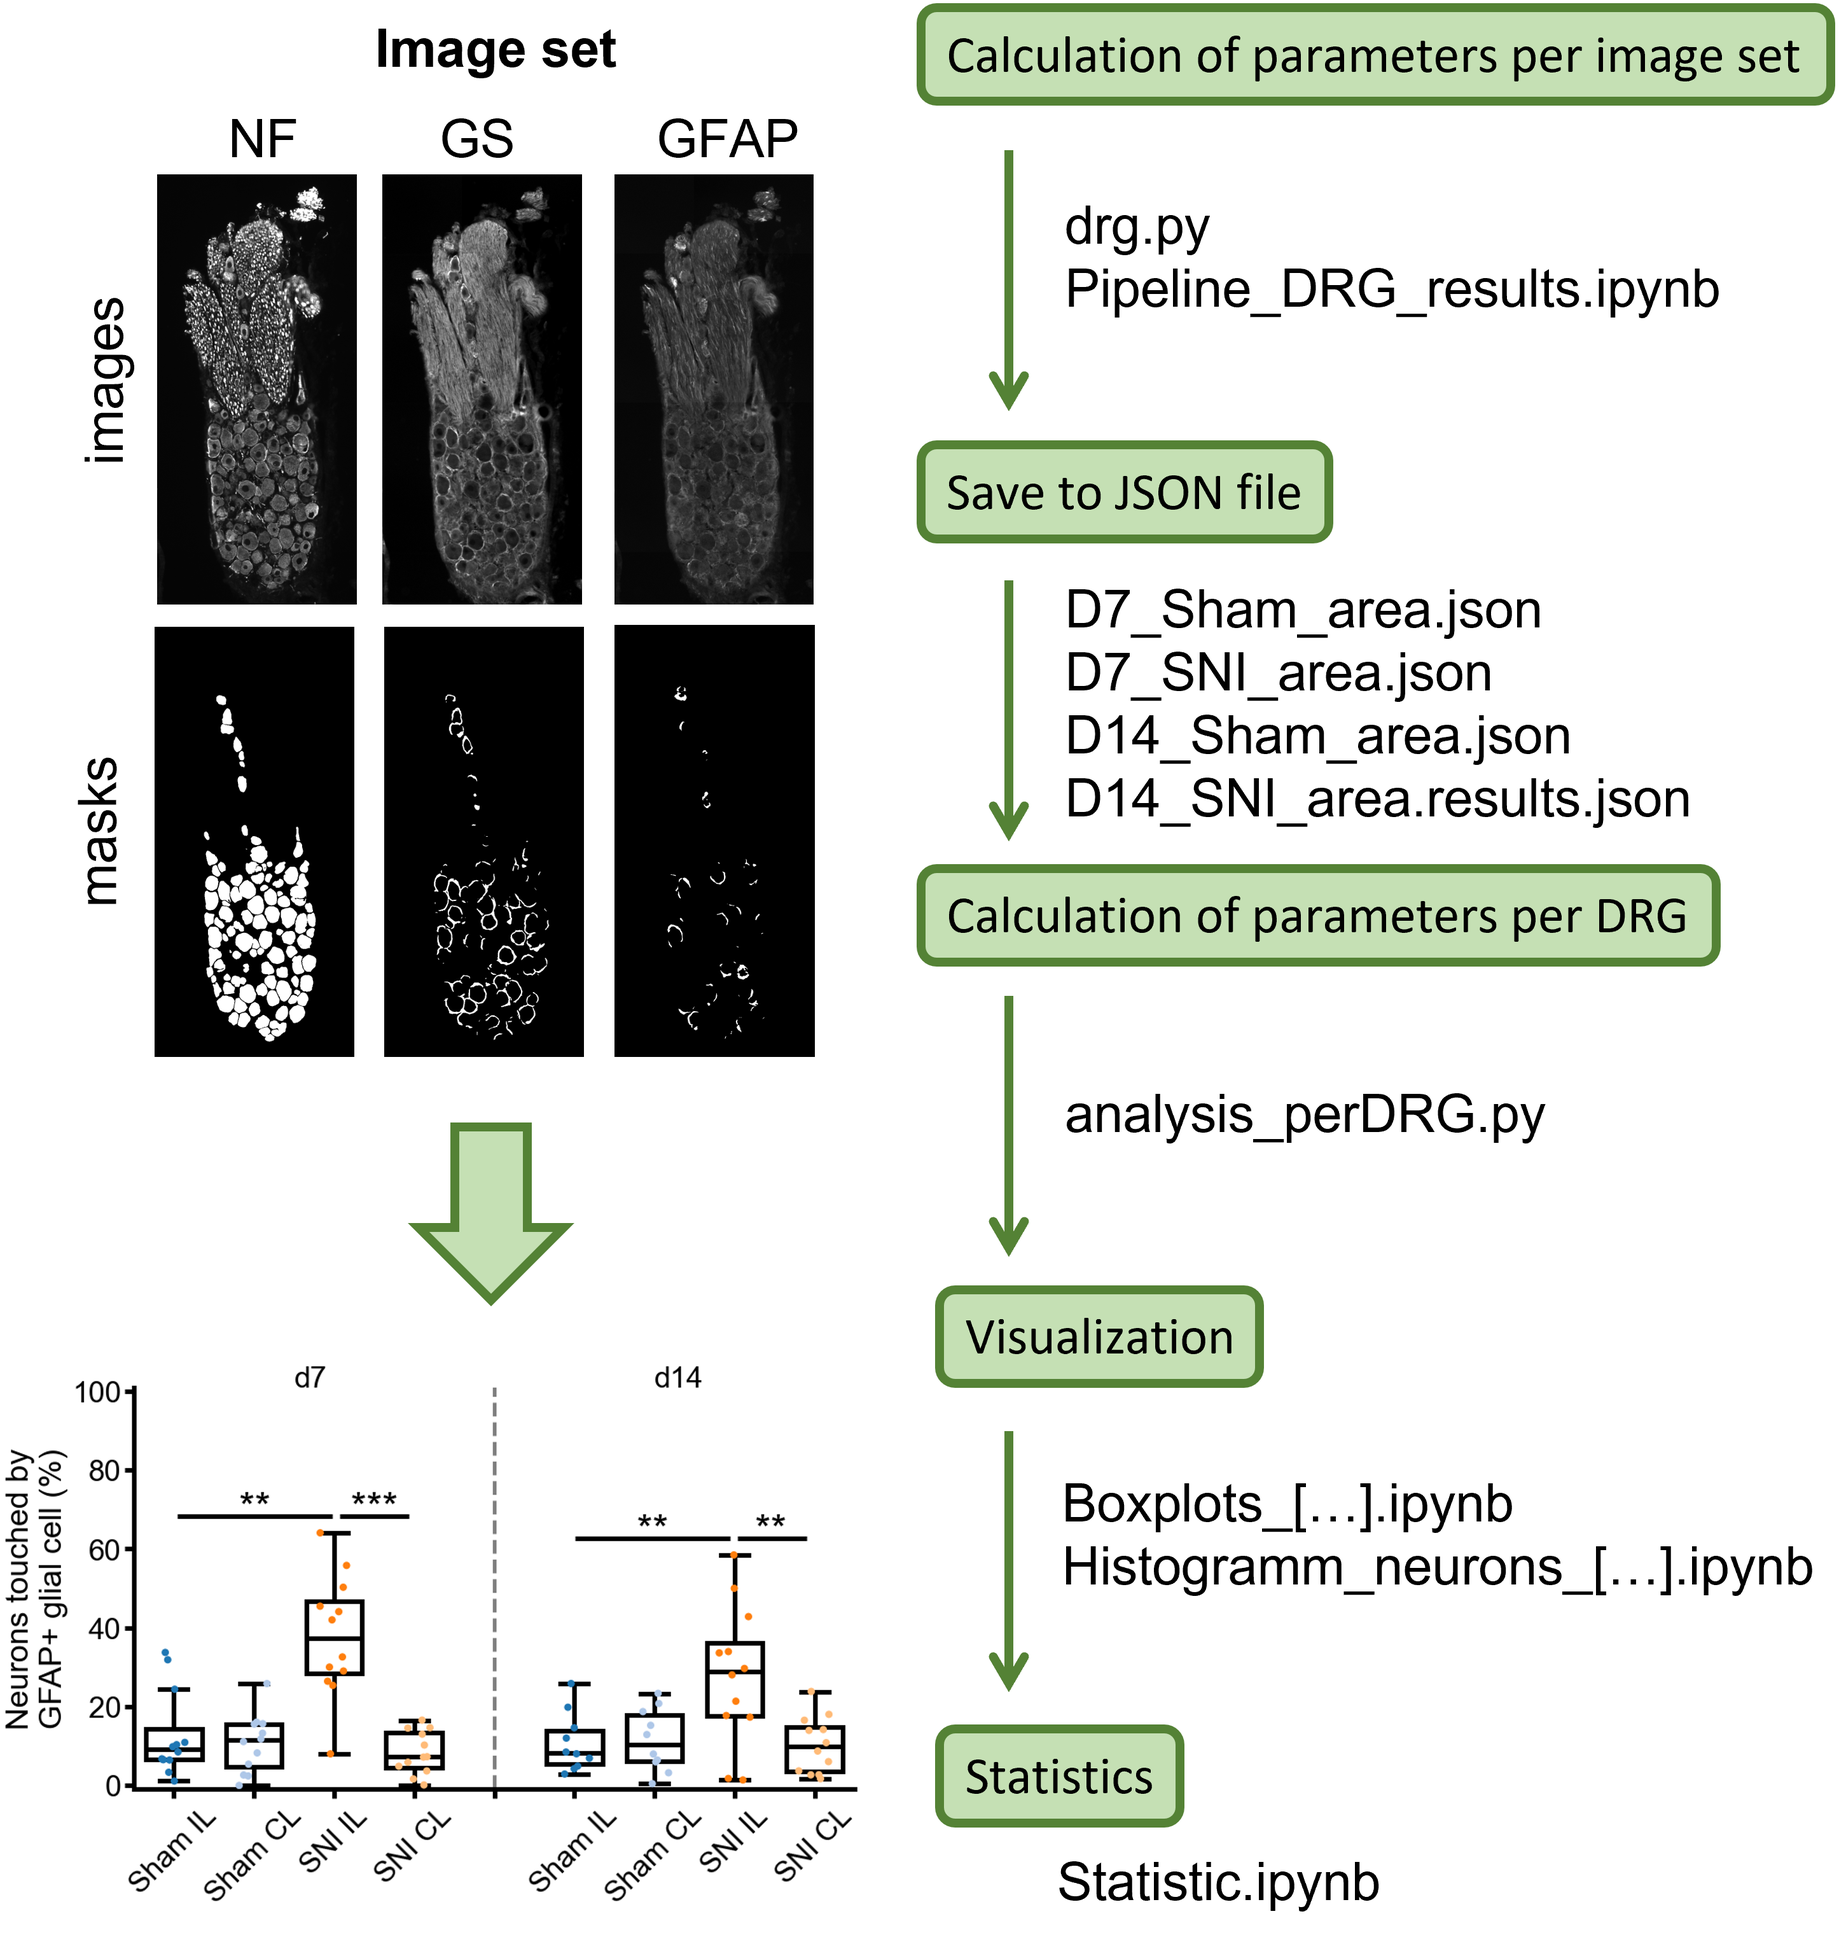
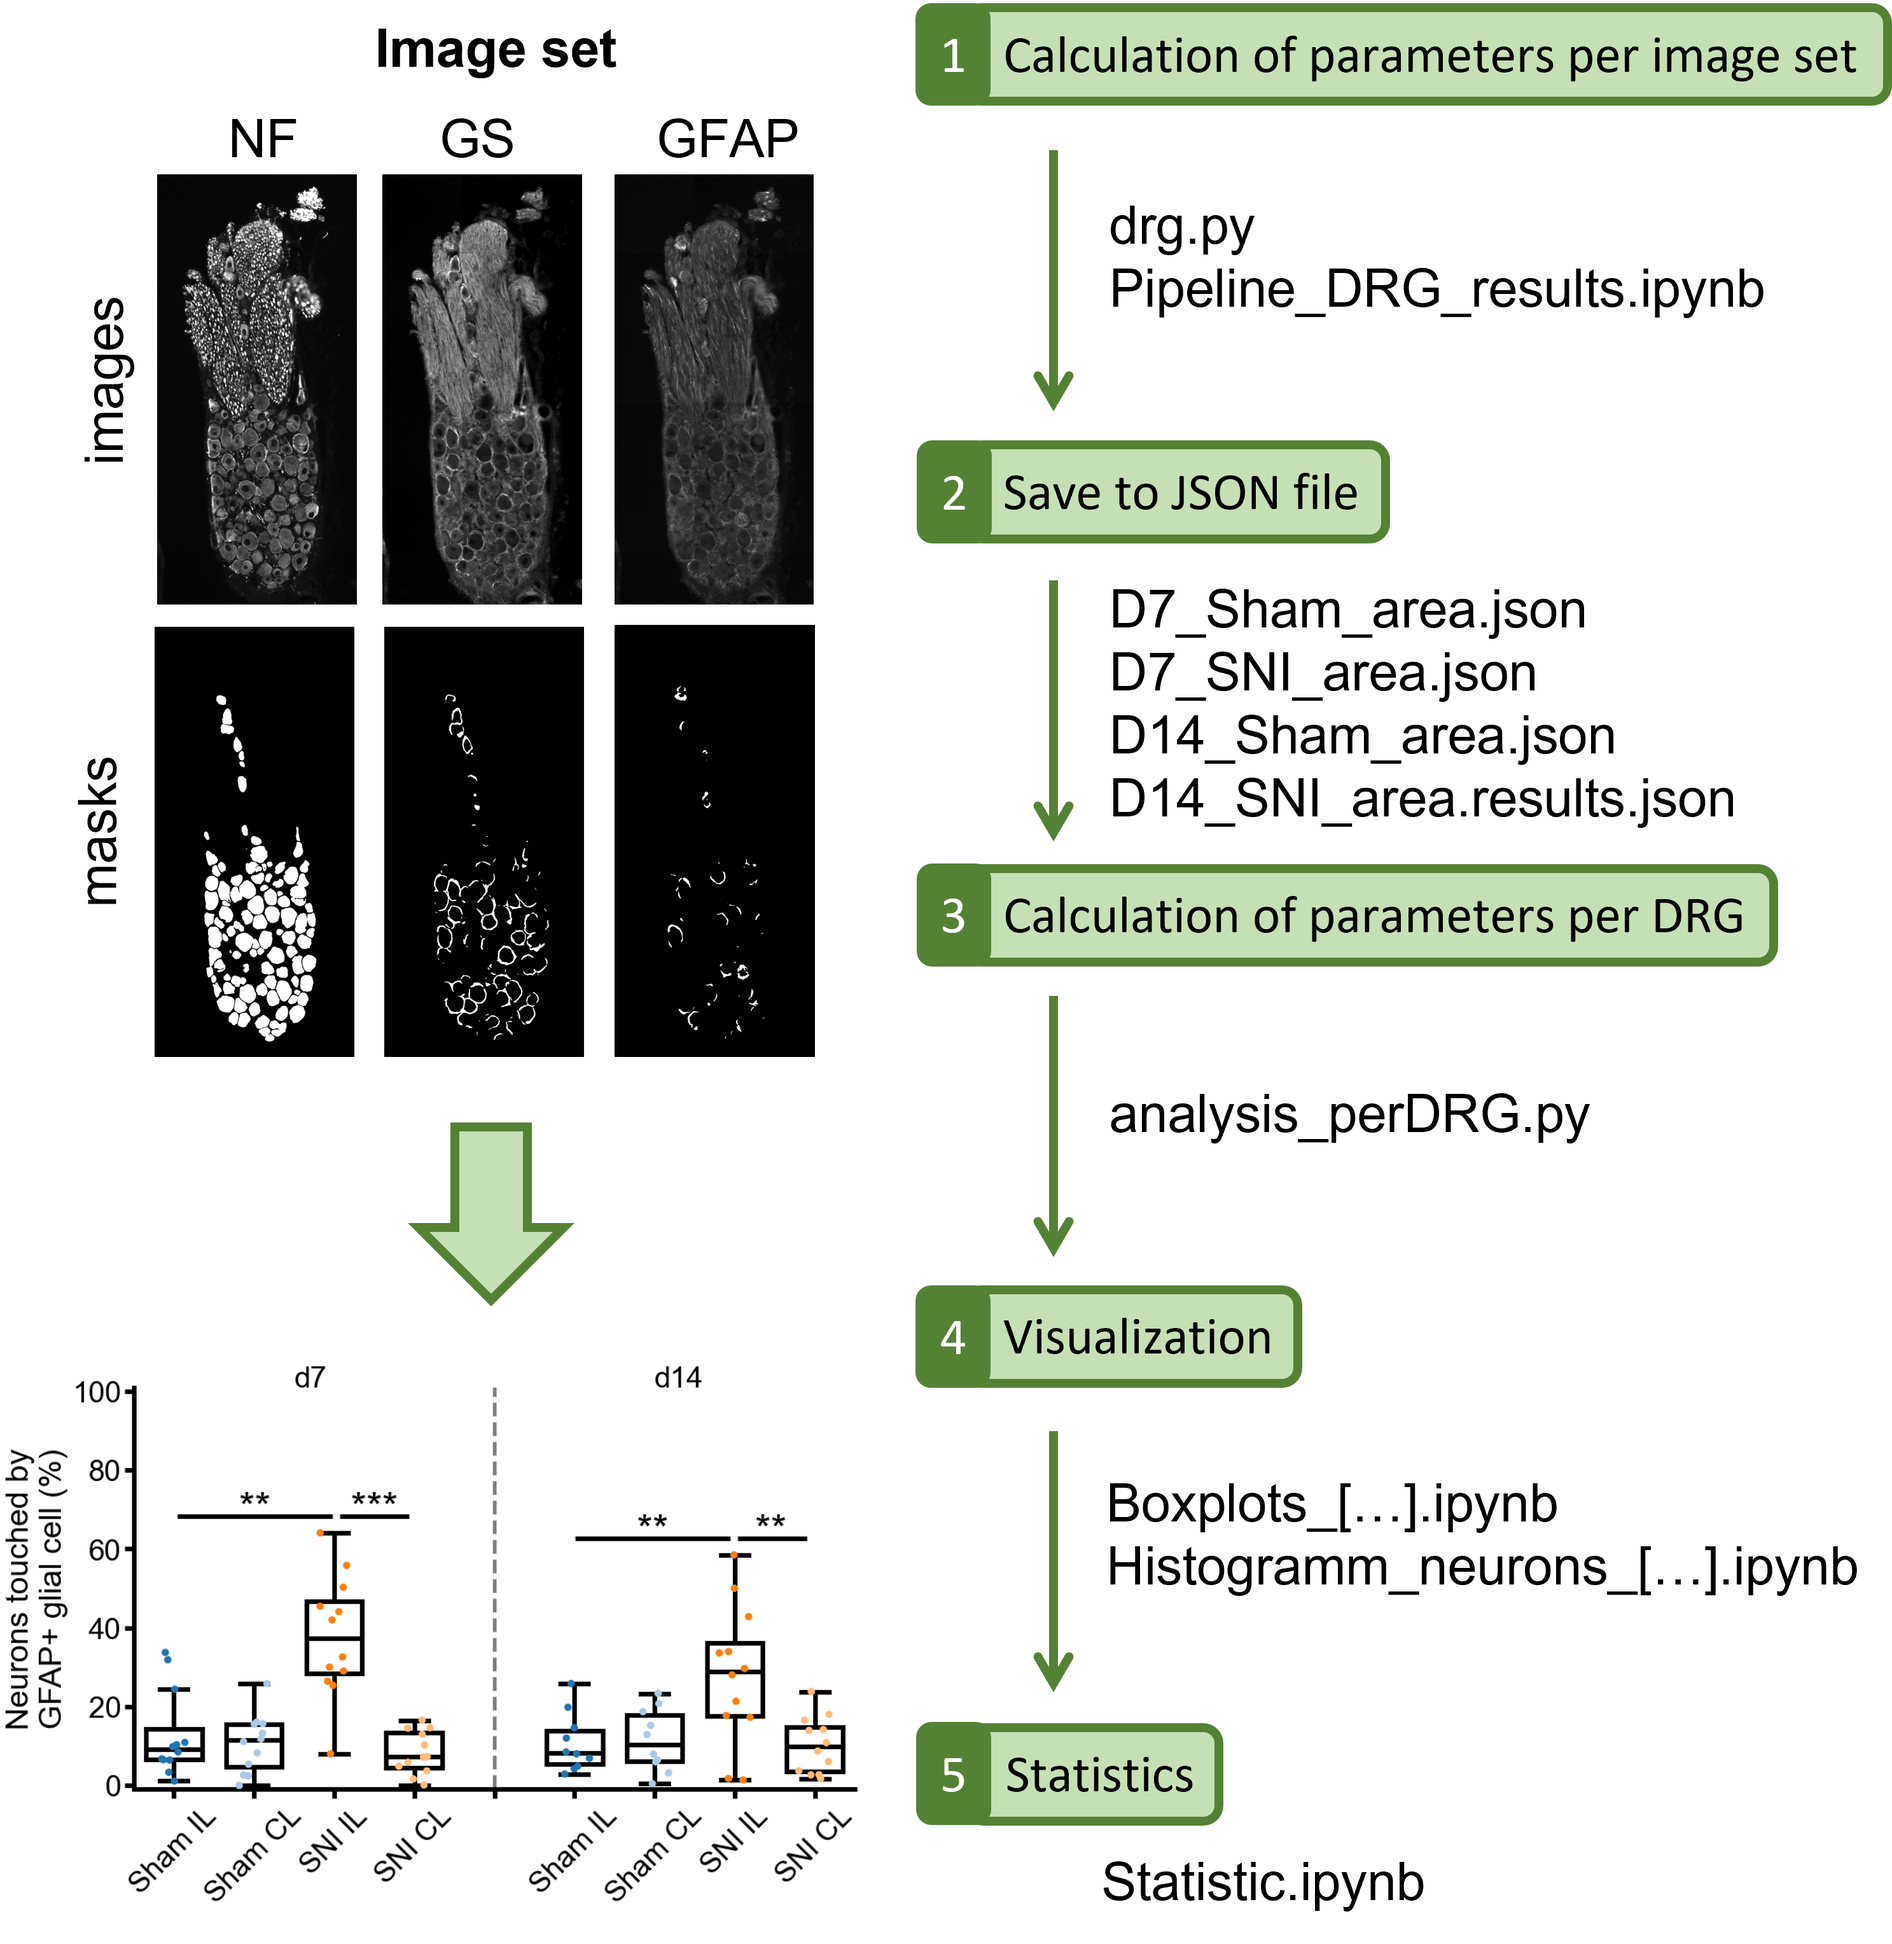
analysis graph

diff --git a/README.md b/README.md
@@ -16,20 +16,22 @@ Online, example segementation can be viewed at https://share.streamlit.io/amschu
 The app (streamlit_app.py) is lauched over Streamlit, visualized data is uploaded on github.
 
 Analysis steps:
-1. Calculation of parameters for each image:
+1. Calculation of parameters per image set:
    - class with calculation script and functions: DrgData in drg.py
    - execution in Jupyter notebook (Pipeline_DRG_results.ipynb)
-   - for each image set (NF, NF_mask, GS, GS_mask, GFAP, GFAP_mask), a dictionary containing the analysis group (L4CL/L4IL/L5CL/L5IL), path, and parameters is created
+   - for each image set (images and masks of NF, GS, and GFAP), a dictionary containing the analysis group (L4CL/L4IL/L5CL/L5IL), path, and parameters is created
+2. Save to JSON file
+   - in Pipeline_DRG_results.ipynb
    - for each experiment group, a list of dictionaries with the analysis results is saved in a json file (D7_Sham_area.json, D7_SNI_area.json, D14_Sham_area.json, D14_SNI_area.results.json)
    - rationale: computation of results for each experiment group took about 4h, making it necessarry to save intermediate results before final evaluation and visualization 
-2. Calculation of parameters for each DRG:
+3. Calculation of parameters per DRG:
    - with GroupData class in analysis_perDRG.py
    - calculation of final parameters, averated for each DRG
    - used before visulation and calculation of statistics
-3. Visualization:
+4. Visualization:
    - Boxplots: Boxplots_d7+d14.ipynb, Boxplots_d7.ipynb, Boxplots_d14.ipynb, Boxplots_L4+L5_d7.ipynb, Boxplots_L4+L5_d14.ipynb 
    - Histogramms: Histogramm_neurons_d7.ipynb, Histogramm_neurons_d14.ipynb 
-4. Statistics:
+5. Statistics:
    - in Statistic.ipynb
    - saved as an excel file
 
